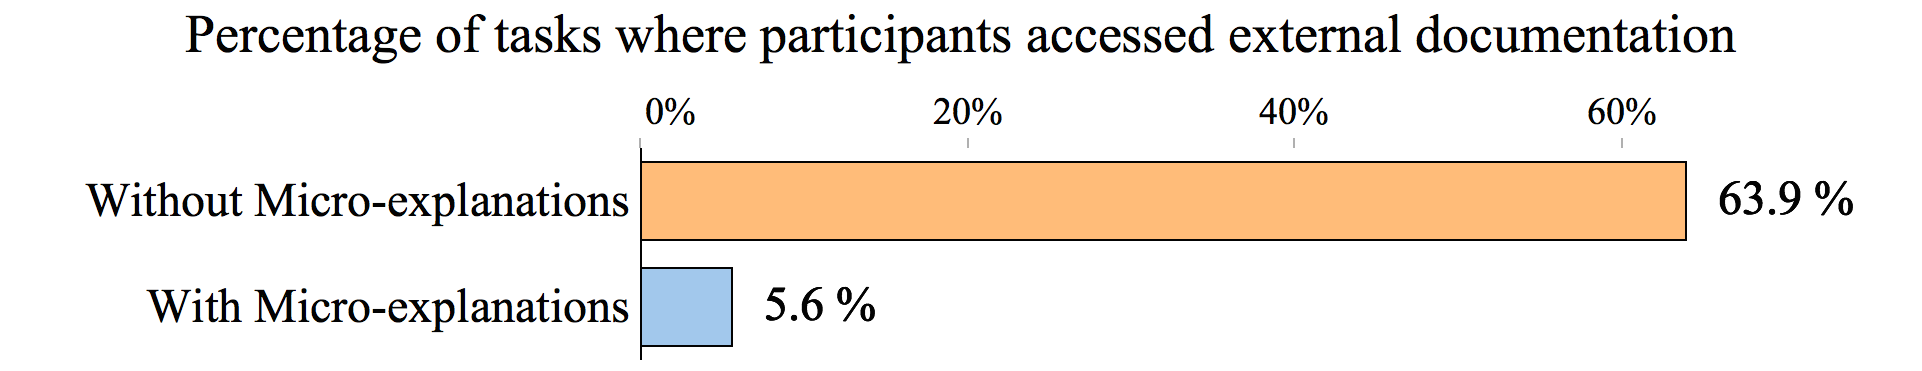
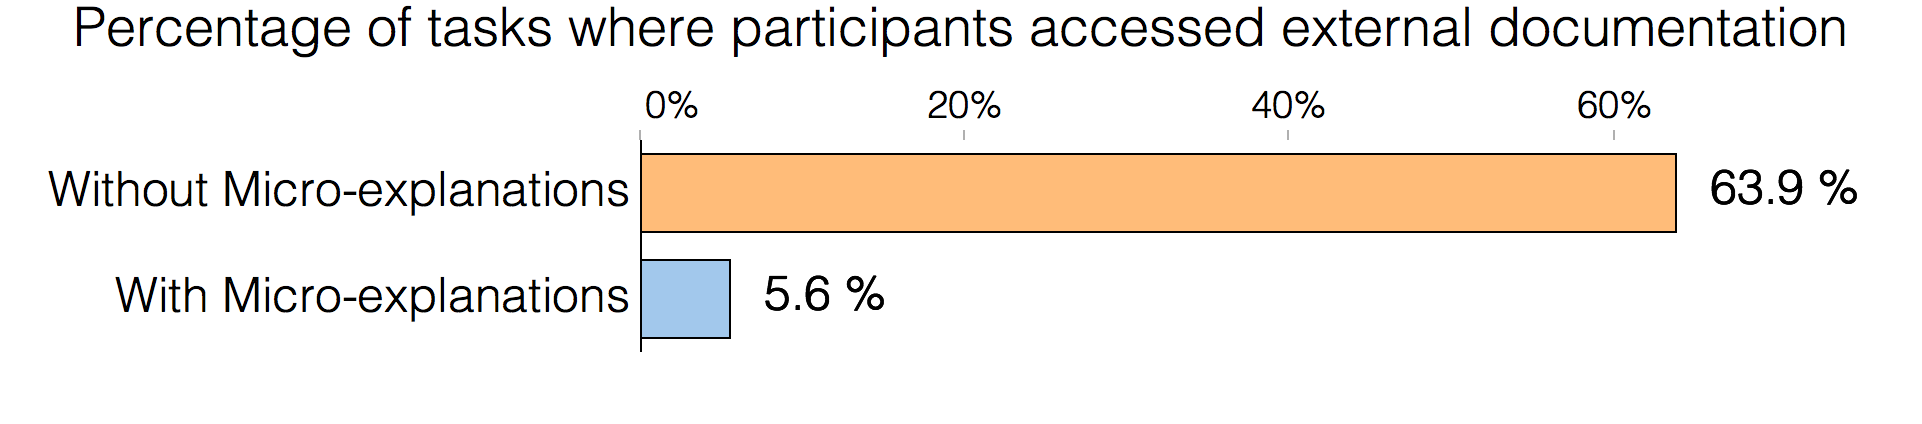
Style: Figure 9 in Helvetica and as PDF

diff --git a/evaluation.tex b/evaluation.tex
@@ -73,7 +73,7 @@ Each code modification asked a participant to:
 \item View a snippet that is unrelated to the task, but that contains some clue on how to do it.  For example, a StackOverflow post that includes, but doesn't explain, the following command:
 \vspace{.2em}
 \snippet{wget --random-wait -r -p -nd -e robots=off -A".pdf"  -U mozilla http://math.stanford.edu/undergrad/}
-\vspace{.2em}
+\vspace{.6em}
 \item Write and test code against a condition we provide.
 \end{enumerate}
 

diff --git a/macros.tex b/macros.tex
@@ -27,13 +27,13 @@
 % Formatting code
 \newcommand{\snippet}[1]{%
 \vspace{.3em}
-\framebox[\linewidth]{%
+% \framebox[\linewidth]{%
     \begin{minipage}{.95\linewidth}
         \begin{hangparas}{.25in}{1}
         \small\texttt{#1}
         \end{hangparas}
     \end{minipage}
-}
+% }
 }
 
 % Revision Macros
